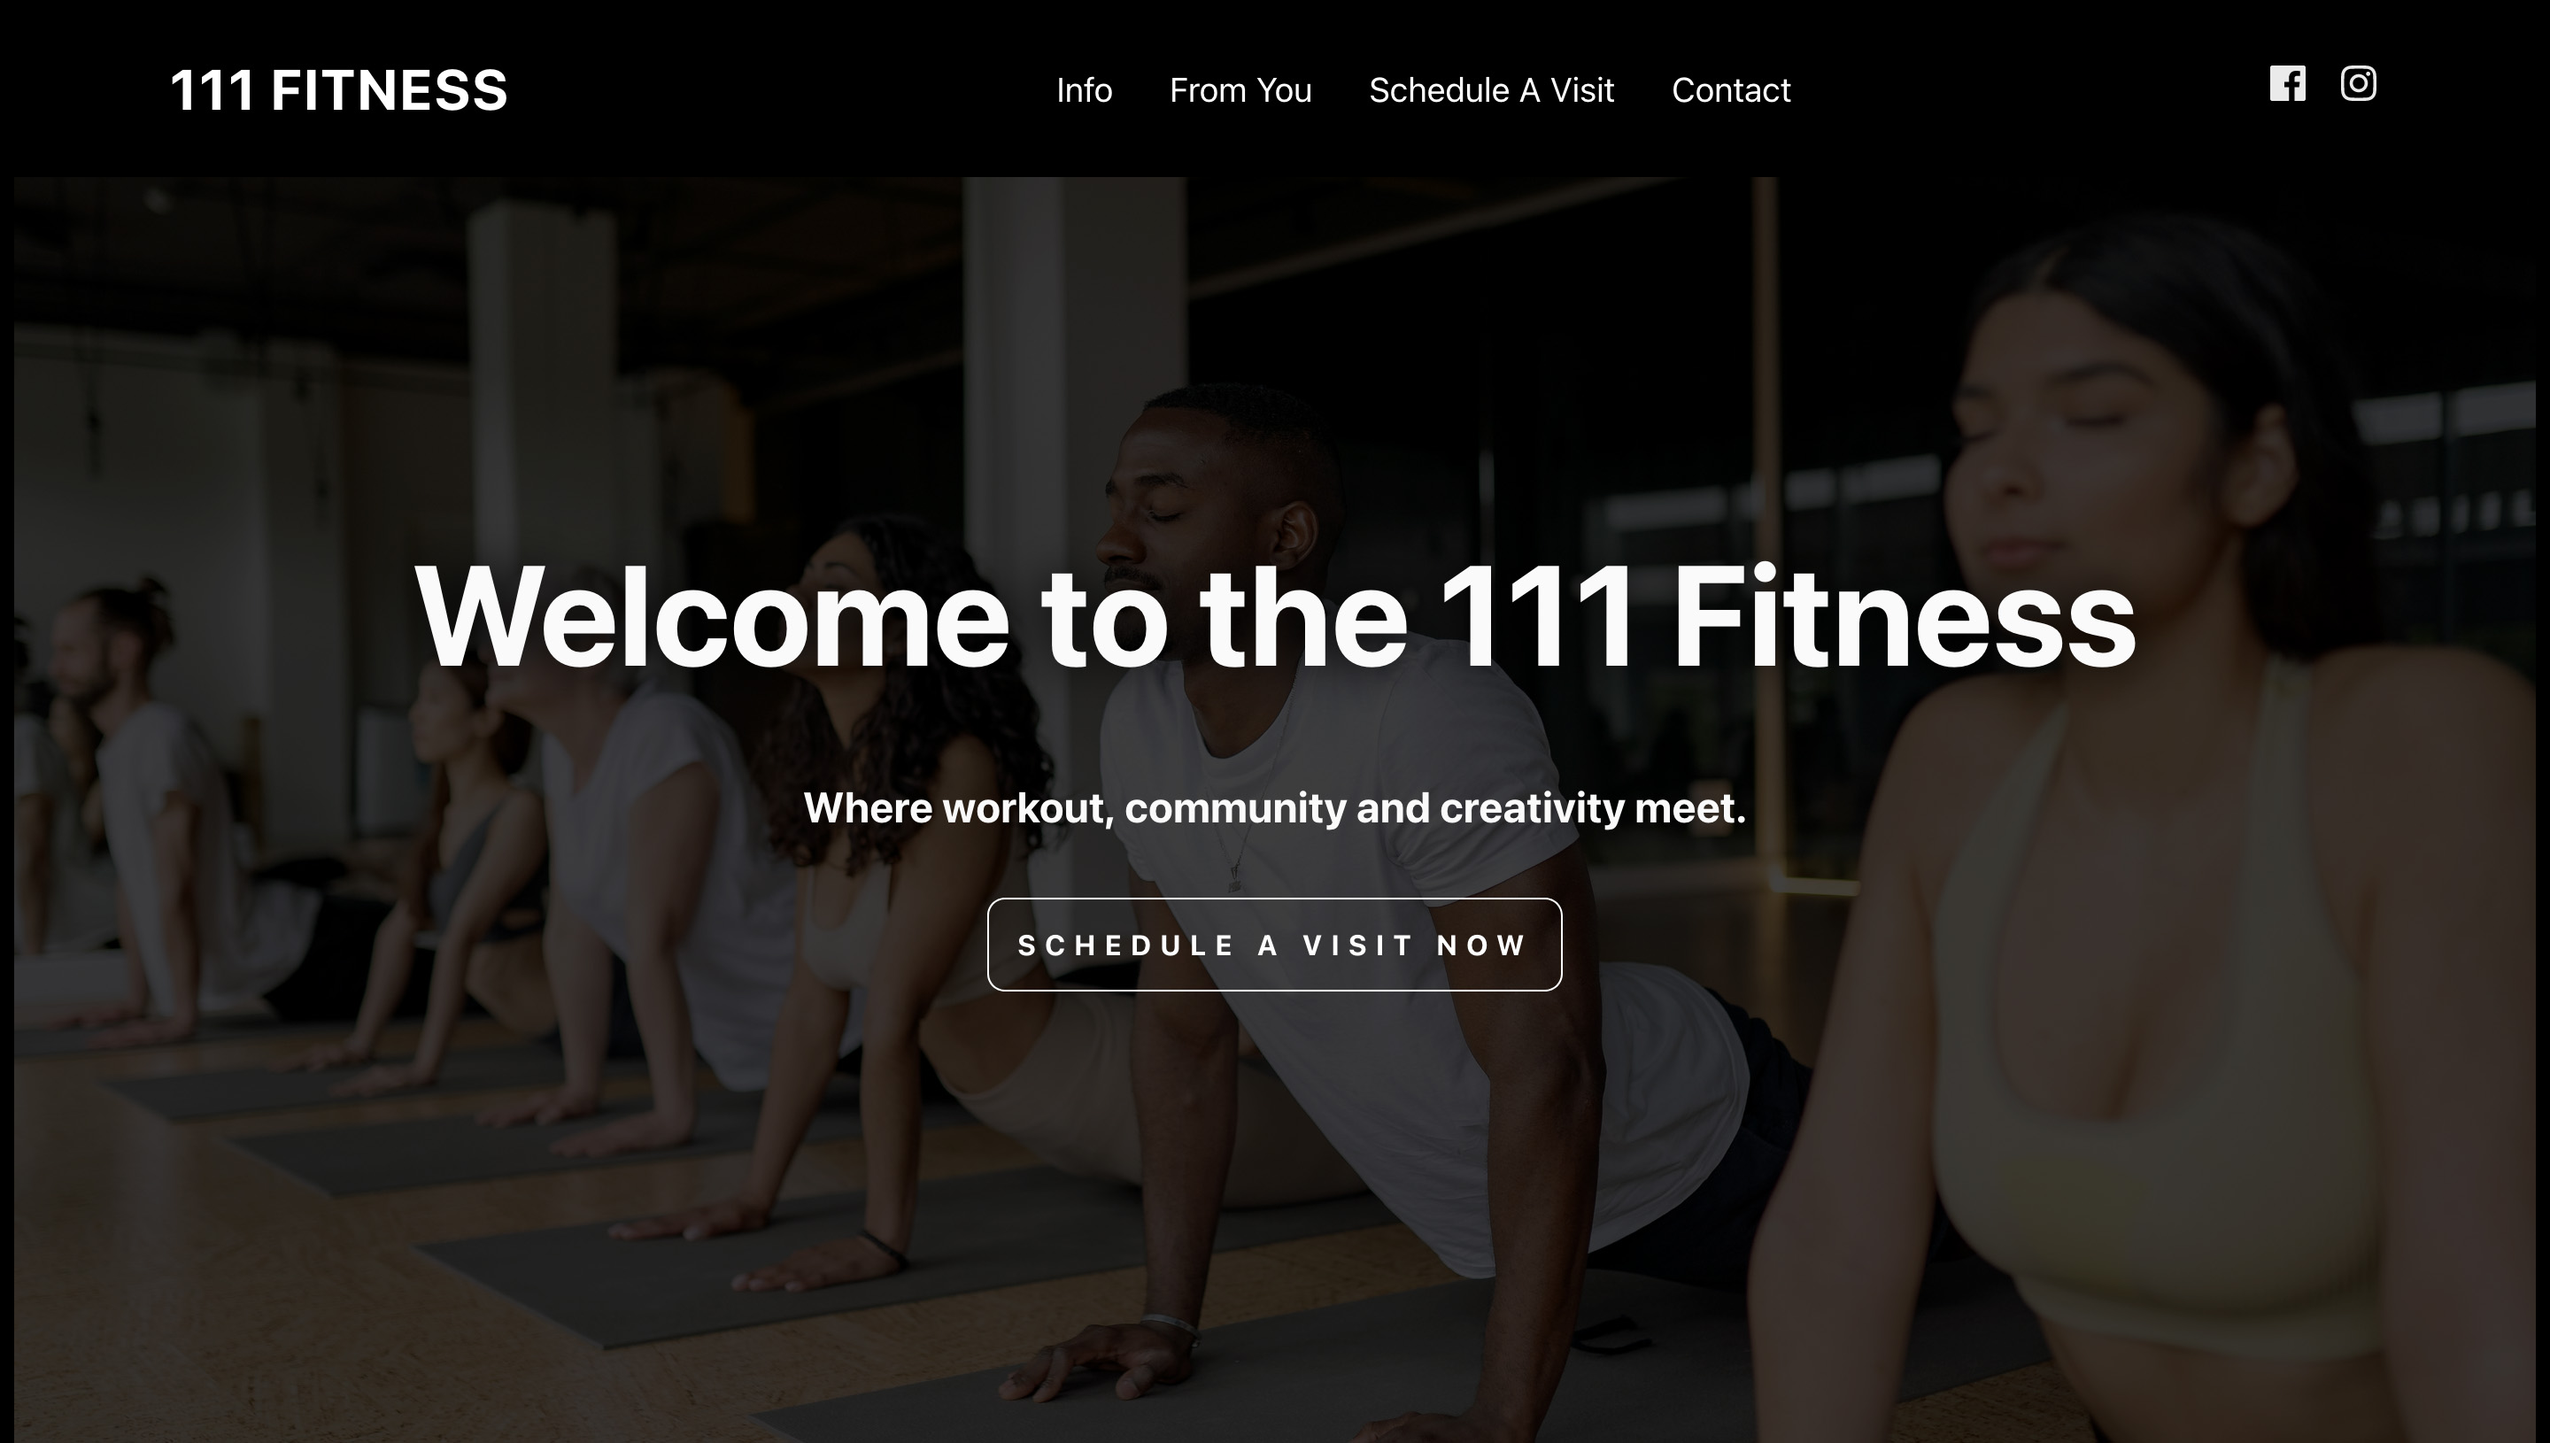
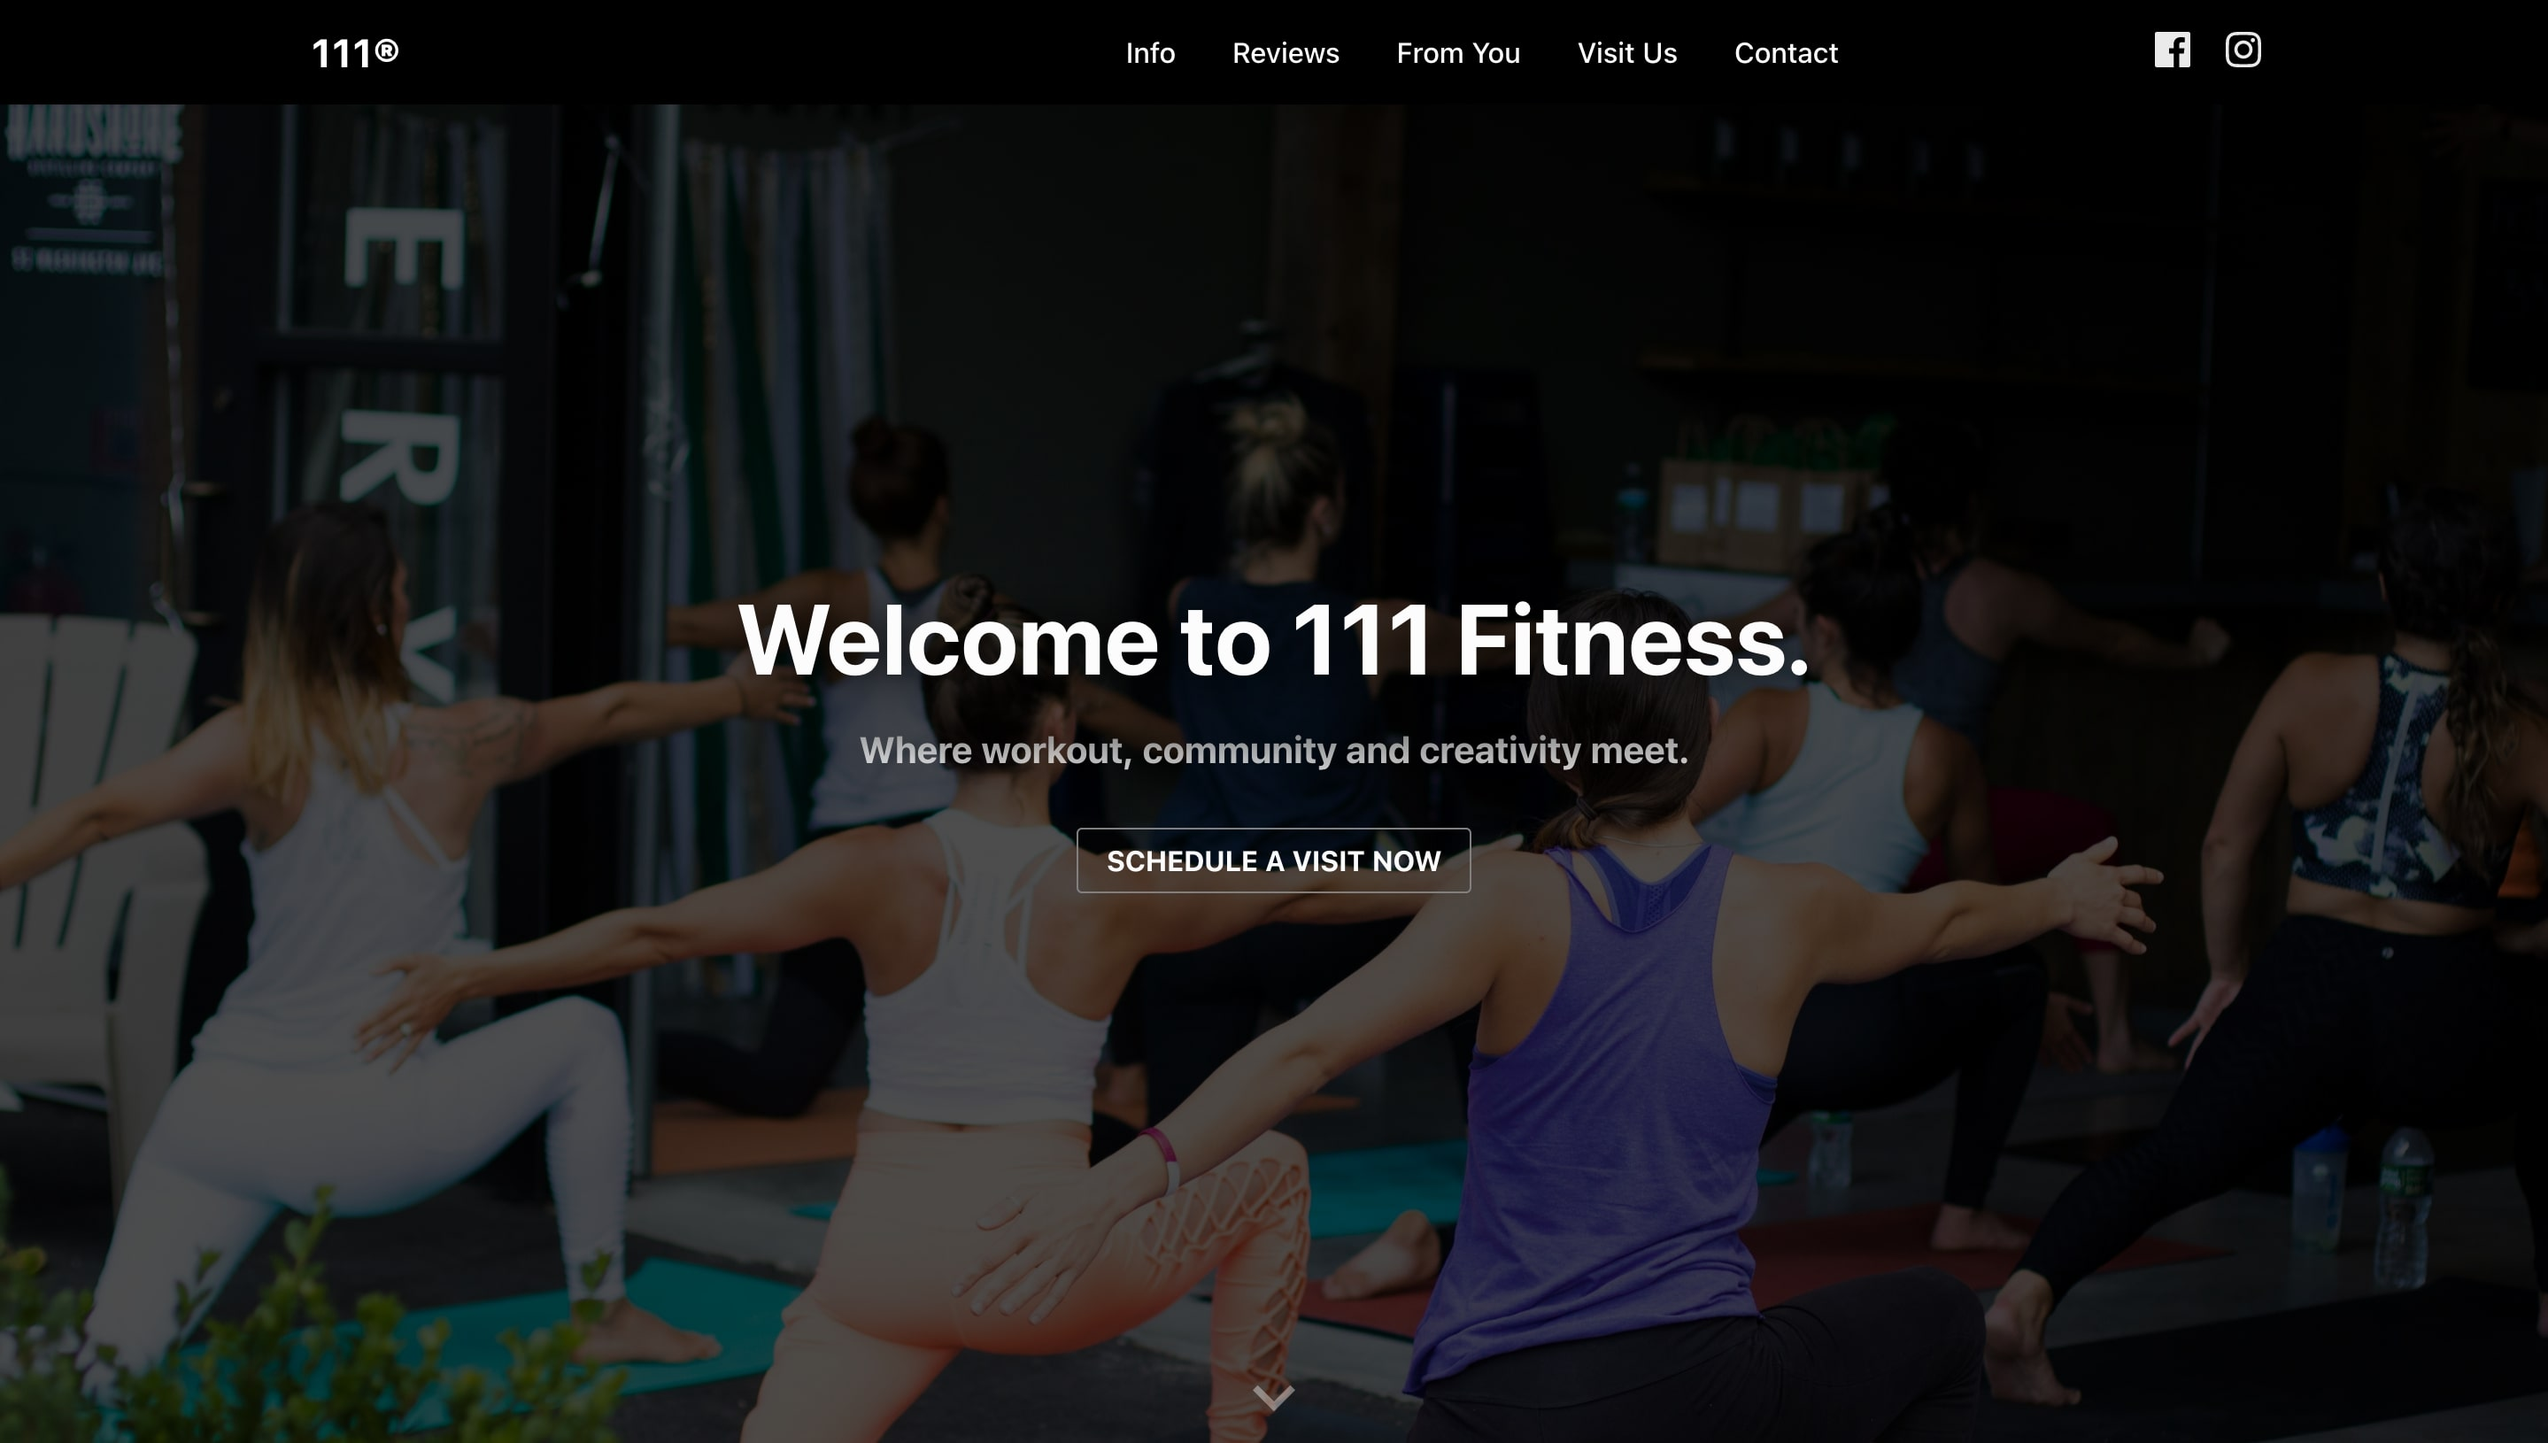
style: fix Dance font, decrase project viewport amount, change fitness-website img, change project order

diff --git a/projectContents.js b/projectContents.js
@@ -1,20 +1,15 @@
 export const projectContents = [
   {
+    title: "Fitness Website",
+    body: "Created reusable components that can further be used to improve this 111 Fitness Page or to create new fitness websites, by using React. Used styled-components to style the components and framer-motion to add animations. Works perfectly on mobile devices.",
+    tags: ["React", "styled-components", "framer-motion"],
+  },
+  {
     title: "Letters App",
-    body: "Lorem ipsum dolor sit amet consectetur adipisicing elit. Rerum officia, earum quisquam modi labore quidem veniam accusantium totam maiores quos at distinctio, esse ipsum fugit aspernatur debitis nihil? Neque aperiam magni assumenda fugit dolore accusamus, explicabo similique dolorum quibusdam mollitia, reprehenderit quidem alias eum praesentium! Ad harum, doloribus aperiam doloremque totam eaque voluptatibus quos sunt provident accusantium temporibus veritatis sequi ipsam nisi, inventore eligendi odio labore quidem corrupti modi et! Tempore earum non excepturi. Voluptatem perspiciatis aliquam optio impedit ipsam odit ipsum labore fuga aperiam temporibus praesentium, vel nesciunt maiores molestias. Rerum tenetur, vero facilis ullam porro eveniet molestiae magni!",
+    body: "Lorem ipsum dolor sit amet consectetur adipisicing elit. Rerum officia, earum quisquam modi labore quidem veniam accusantium totam maiores quos at distinctio, esse ipsum fugit aspernatur debitis nihil? Neque aperiam magni assumenda fugit dolore accusamus, explicabo similique dolorum quibusdam mollitia, reprehenderit quidem alias eum praesentium! ",
     tags: ["Next.js", "React", "Tailwind CSS", "MongoDB"],
     liveGhPages: false,
     liveLink: "https://letters-app.vercel.app/",
-  },
-  {
-    title: "News Page",
-    body: "Practised UI/UX design on this project. Considered which layout would be the best, examined font families and font sizes, tried to match colors. Articles on this page are reusable components from React, this means the project can be easily expanded. Used styled-components for styling.",
-    tags: ["React", "styled-components"],
-  },
-  {
-    title: "Pomodoro Clock",
-    body: "While creating this pomodoro timer project, I used React. By using it, it was easier to work with the state management, timer logic and dividing the app to eliminate the confusion. Also, there are two themes to choose from: space and nature. More, the app offers four different work - break timer presets, and it rings when the timer ends. Responsively designed.",
-    tags: ["HTML", "CSS", "React"],
   },
   {
     title: "Data Visualization Projects",
@@ -22,9 +17,14 @@ export const projectContents = [
     tags: ["HTML", "CSS", "React", "D3", "APIs"],
   },
   {
-    title: "Fitness Website",
-    body: "With using React, created reusable components that can further be used to improve this 111 Fitness Page or to create new fitness websites. Used styled-components to style the components and framer-motion to add animations. Works without an error on mobile devices.",
-    tags: ["React", "styled-components", "framer-motion"],
+    title: "Pomodoro Clock",
+    body: "While creating this pomodoro timer project, I used React. By using it, it was easier to work with the state management, timer logic and dividing the app to eliminate the confusion. Also, there are two themes to choose from: space and nature. More, the app offers four different work - break timer presets, and it rings when the timer ends. Responsively designed.",
+    tags: ["HTML", "CSS", "React"],
+  },
+  {
+    title: "News Page",
+    body: "Practised UI/UX design on this project. Considered which layout would be the best, examined font families and font sizes, tried to match colors. Articles on this page are reusable components from React, this means the project can be easily expanded. Used styled-components for styling.",
+    tags: ["React", "styled-components"],
   },
   {
     title: "Random Quote Generator",

diff --git a/src/index.css b/src/index.css
@@ -1,5 +1,10 @@
 @import url("https://fonts.googleapis.com/css2?family=Manrope:wght@200..800&family=Space+Grotesk:wght@300..700&family=Inter&family=Poppins&display=swap");
 
+@font-face {
+  font-family: "Dance";
+  src: url("/fonts/Dance.otf") format("opentype");
+}
+
 :root {
   --background-color: #242424;
   --accent-color: mediumpurple;

diff --git a/src/components/sections/Projects/Projects.jsx b/src/components/sections/Projects/Projects.jsx
@@ -28,7 +28,7 @@ function Project({
       variants={projectVariants}
       initial="initial"
       whileInView="whileInView"
-      viewport={{ amount: 0.5, once: true }}
+      viewport={{ amount: 0.2, once: true }}
       className={`project ${kebabCase(title)}`}
     >
       <div className="project__image">
